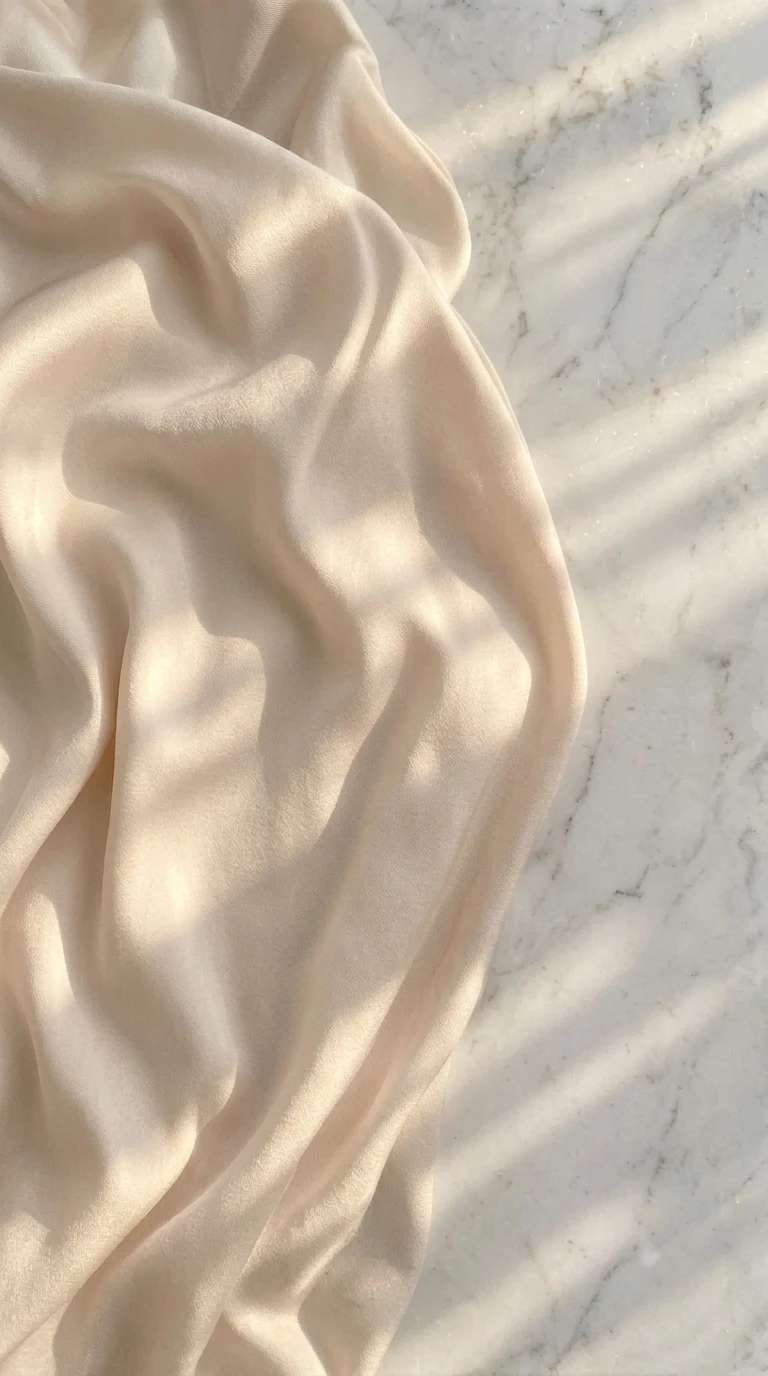
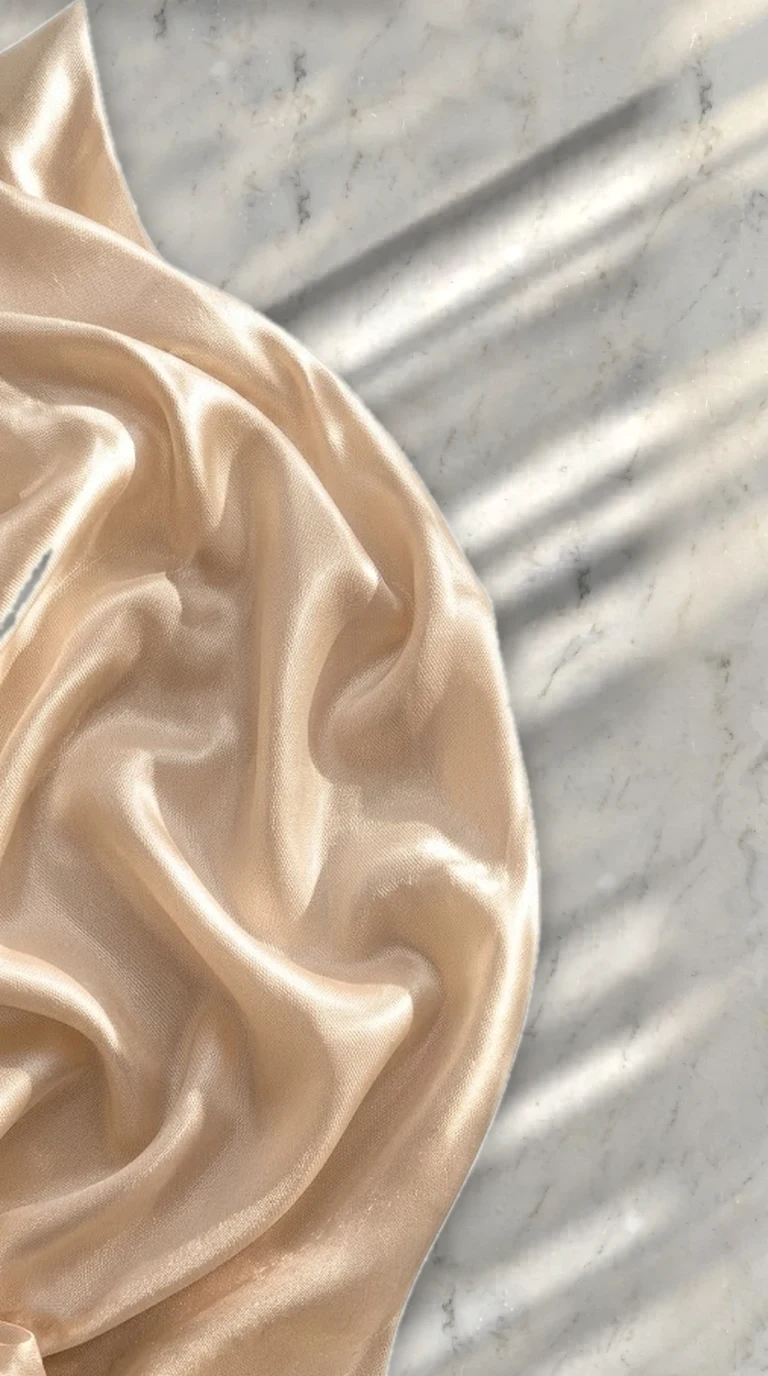
Nhánh Nữ: bố cục cảnh tulip theo ảnh mẫu, tấm lụa satin mới, bóng tiếp xúc + bóng đổ cho phong bì/KitKat/cánh hoa
Claude-Session: https://claude.ai/code/session_0176htKEH6Y7Juox9HqogLEH

diff --git a/src/scenes/FemaleScene/femaleAssets.ts b/src/scenes/FemaleScene/femaleAssets.ts
@@ -1,6 +1,6 @@
 /**
  * Ảnh nhánh Nữ + vị trí từng vật trong cảnh tulip.
- * Toạ độ theo "tấm ảnh" nền 768×1376 (C3: lụa + đá). Bố cục theo ảnh mẫu Hiệp gửi (27/09):
+ * Toạ độ theo "tấm ảnh" nền 768×1376 (C3: lụa + đá). Bố cục theo ảnh mẫu Hiệp gửi (28/09, ảnh đúng khổ màn 390×844 → toạ độ tấm = 66 + x·0.746, y·0.746):
  * bó hoa bên trái đè lên mép trái phong bì · phong bì to ở giữa-phải, dấu sáp ở mũi nắp (giữa phong bì)
  * · KitKat dưới-phải · cánh hoa rải trên-phải và dưới.
  * Bó hoa + cánh hoa: ảnh tách nền Hiệp gửi. KitKat: tách từ C2. Phong bì: E2 (mở) + E1 (đóng).
@@ -14,7 +14,7 @@ import { ticketFromGuest, type Guest } from '../../state/guestStore'
 const F = '/assets/female/'
 
 export const FEMALE_IMG = {
-  sceneBg: F + 'scene-bg.webp',
+  sceneBg: F + 'scene-bg.webp?v=2', // nền mới: lụa satin Hiệp gửi 28/09
   bouquet: F + 'bouquet.webp',
   bouquetShadow: F + 'bouquet-shadow.webp',
   lightmap: F + 'lightmap.webp',
@@ -36,16 +36,16 @@ export const PLATE = { w: 768, h: 1376 }
 export type Box = readonly [number, number, number, number]
 
 export const PLACE: Record<'bouquet' | 'choc' | 'petal1' | 'petal2' | 'petal3', Box> = {
-  bouquet: [-150, 290, 450, 1236],
-  choc: [362, 850, 703, 1343], // như ảnh gốc C2 (trên mặt đá, dưới-phải), hạ nhẹ cho khỏi lẫn dưới phong bì
-  petal1: [468, 640, 588, 749], // giữa bó hoa và thanh sô-cô-la
-  petal2: [612, 560, 698, 690], // dưới góc phải phong bì
-  petal3: [296, 1236, 392, 1344],
+  bouquet: [-41, 491, 469, 1295],
+  choc: [450, 932, 690, 1278],
+  petal1: [612, 748, 692, 821],
+  petal2: [337, 1207, 407, 1313],
+  petal3: [800, 1300, 860, 1380], // ngoài khung — bố cục mẫu chỉ có 2 cánh
 }
 
 /** Chỗ phong bì nằm (khung THÂN phong bì, tỉ lệ 582×435) — trên tấm lụa phía trên bó hoa, nằm chéo (xoay ở ENVELOPE_TILT). */
-export const ENVELOPE_TILT = 12 // độ; số dương = chéo từ trái xuống phải
-export const ENVELOPE_SPOT: Box = [232, 150, 636, 452]
+export const ENVELOPE_TILT = 9 // độ; số dương = chéo từ trái xuống phải
+export const ENVELOPE_SPOT: Box = [265, 401, 665, 700]
 
 
 /** Tải + giải mã trước toàn bộ ảnh (gọi lúc khách bấm GỬI) → cảnh không bị hiện dần từng ảnh. */

diff --git a/src/scenes/FemaleScene/FemaleScene.css b/src/scenes/FemaleScene/FemaleScene.css
@@ -82,8 +82,9 @@
   max-width: none;
 }
 /* nắng từ trên-trái → bóng đổ xuống dưới-phải */
-.fem__choc { filter: drop-shadow(5px 8px 6px rgba(70, 40, 25, 0.28)); }
-.fem__petal { filter: drop-shadow(3px 5px 4px rgba(120, 70, 60, 0.18)); }
+/* bóng 2 lớp: bóng tiếp xúc (sát, đậm) + bóng đổ mềm (nắng trên-trái → đổ xuống-phải) */
+.fem__choc { filter: drop-shadow(1.5px 2.5px 1.5px rgba(55, 28, 18, 0.38)) drop-shadow(7px 11px 10px rgba(70, 40, 25, 0.22)); }
+.fem__petal { filter: drop-shadow(1px 1.5px 1px rgba(120, 60, 55, 0.28)) drop-shadow(4px 7px 6px rgba(120, 70, 60, 0.16)); }
 .fem__spot {
   position: absolute;
   aspect-ratio: 582 / 435;
@@ -128,11 +129,13 @@
   height: 100%;
 }
 .fem__env-shadow {
-  inset: -6% -8% -12% -8%;
+  inset: 0.5%;
   width: auto;
   height: auto;
-  /* bóng mềm bằng gradient (không dùng filter blur — blur phải vẽ lại mỗi khung khi phong bì di chuyển) */
-  background: radial-gradient(closest-side, rgba(20, 12, 6, 0.6), rgba(20, 12, 6, 0.32) 55%, rgba(20, 12, 6, 0));
+  border-radius: 2px;
+  /* bóng phong bì nằm trên lụa/đá: tiếp xúc sát mép + bóng mềm đổ xuống-phải (không dùng filter blur) */
+  background: transparent;
+  box-shadow: 2px 3px 3px rgba(45, 28, 14, 0.32), 9px 16px 24px rgba(45, 28, 14, 0.24);
 }
 .fem__env-back { z-index: 1; }
 .fem__env-letter { z-index: 2; }
